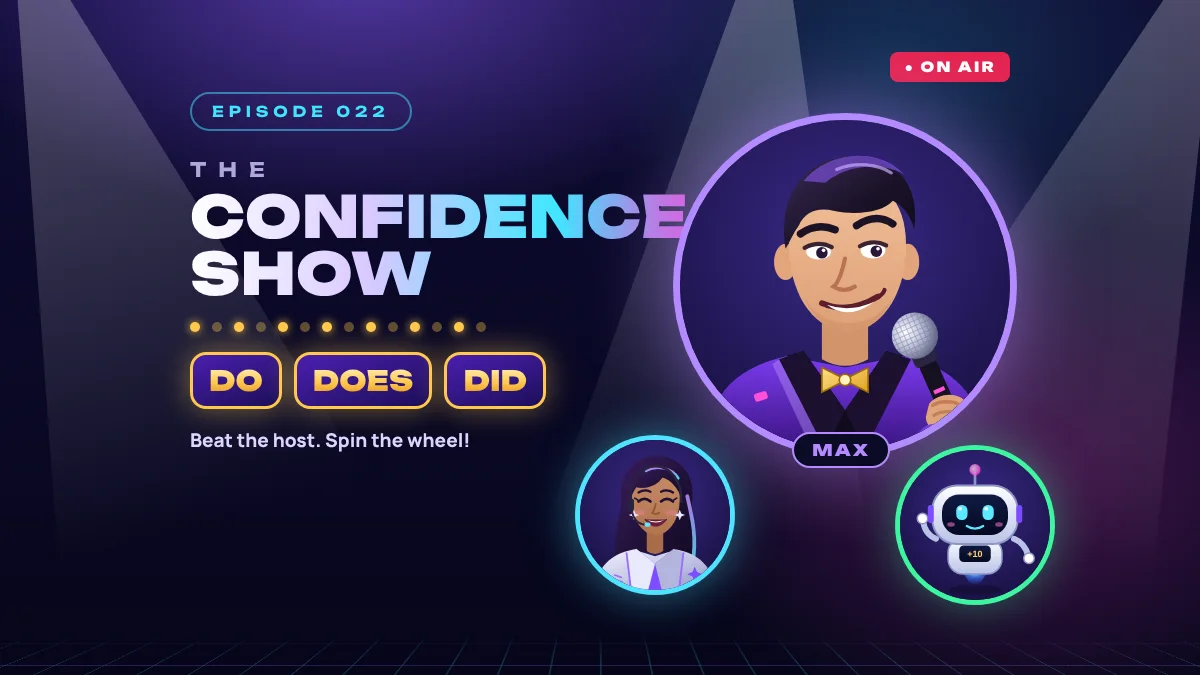
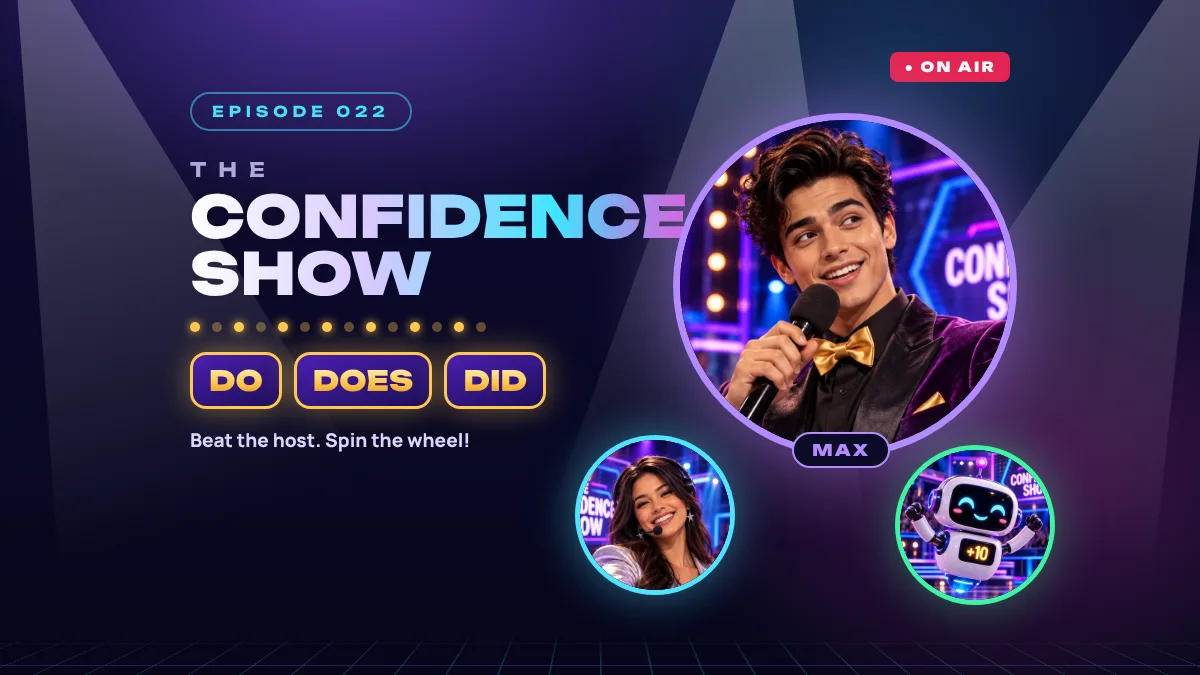
Add files via upload

Changed region(s): [[0.555, 0.1556, 0.8942, 0.9022], [0.4625, 0.6533, 0.6167, 0.8711]]

diff --git a/lessons/lesson-22/lesson-22.html b/lessons/lesson-22/lesson-22.html
@@ -24,8 +24,8 @@
 window.LESSON_CONFIG = {
   SUPABASE_URL : 'https://yhekszqxheljbxoucalt.supabase.co',
   SUPABASE_KEY : 'sb_publishable_knHTxZLX-Ucg0WtnfP0RTw_ytJ2Dyoa',
-  PHOTOS : { max:'img/cast/max.svg', max_shocked:'img/cast/max-shocked.svg', max_defeated:'img/cast/max-defeated.svg',
-             nova:'img/cast/nova.svg', beep:'img/cast/beep.svg' },
+  PHOTOS : { max:'img/cast/max.webp', max_shocked:'img/cast/max-shocked.webp', max_defeated:'img/cast/max-defeated.webp',
+             nova:'img/cast/nova.webp', beep:'img/cast/beep.webp' },
   GRAMMAR_LINK : '../../#grammar?topic=emphatic-do',
   WORDS_LINK   : '../../#words?lesson=21'
 };
@@ -123,7 +123,7 @@ body.champ #studio .beam{opacity:.5}
 .ib:hover{background:rgba(255,255,255,.09)} .ib.on{background:var(--violet);border-color:var(--violet)}
 .ib .lbl{display:none} @media (min-width:1640px){ .ib .lbl{display:inline} }
 #score{height:44px;display:inline-flex;align-items:center;gap:10px;padding:0 14px 0 6px;border-radius:999px;border:1px solid rgba(255,201,77,.5);background:linear-gradient(90deg,rgba(255,201,77,.16),rgba(255,201,77,.04));font-weight:800;white-space:nowrap}
-#score img{width:34px;height:34px;border-radius:50%;background:#1B1F55}
+#score img{width:34px;height:34px;border-radius:50%;background:#1B1F55;object-fit:cover}
 #score .tn{font-size:12px;letter-spacing:.08em;color:var(--gold2);max-width:130px;overflow:hidden;text-overflow:ellipsis;white-space:nowrap}
 @media (max-width:1360px){ #score .tn{display:none} }
 #score .pts{font-family:var(--disp);font-size:18px;color:var(--gold);min-width:2ch;text-align:right}
@@ -174,6 +174,11 @@ body.champ #studio .beam{opacity:.5}
 /* ════════ CHARACTERS & DIALOGUE ════════ */
 .av{--c:var(--c-max); position:relative; flex:none; width:var(--s,56px); height:var(--s,56px); border-radius:50%; overflow:hidden; background:radial-gradient(circle at 50% 35%,#3A2A8A,#120C34); box-shadow:0 0 0 3px var(--c), 0 0 24px color-mix(in srgb, var(--c) 45%, transparent); display:grid; place-items:center}
 .av img{width:100%;height:100%;object-fit:cover;display:block}
+/* BEEP «живий»: парить і світиться */
+.av.k-beep{animation:beepGlow 1.8s ease-in-out infinite}
+.av.k-beep img{animation:beepFloat 3s ease-in-out infinite}
+@keyframes beepFloat{0%,100%{transform:scale(1.1) translateY(2.5%)}50%{transform:scale(1.1) translateY(-2.5%)}}
+@keyframes beepGlow{0%,100%{box-shadow:0 0 0 3px var(--c), 0 0 18px rgba(61,245,160,.35)}50%{box-shadow:0 0 0 3px var(--c), 0 0 34px rgba(61,245,160,.8), 0 0 60px rgba(255,63,208,.35)}}
 .av .fb{font-family:var(--disp);font-size:calc(var(--s,56px)*.36);color:#fff}
 .k-max{--c:var(--c-max)} .k-nova{--c:var(--c-nova)} .k-beep{--c:var(--c-beep)} .k-you{--c:var(--c-you)} .k-emma{--c:var(--c-emma)}
 .nm{font-family:var(--disp);font-size:13px;letter-spacing:.12em;font-weight:900;text-transform:uppercase}
@@ -262,7 +267,7 @@ details.more summary{cursor:pointer;font-weight:800;color:var(--muted)}
 @keyframes floaty{50%{transform:translateY(-8px) rotate(-.6deg)}}
 .envelope .flap{position:absolute;left:0;right:0;top:0;height:58%;background:linear-gradient(180deg,#DCCB9E,#C2AC7C);clip-path:polygon(0 0,100% 0,50% 100%);transform-origin:50% 0;transition:transform .8s cubic-bezier(.5,0,.3,1);z-index:3;border-radius:14px 14px 0 0}
 .envelope .seal{position:absolute;left:50%;top:50%;transform:translate(-50%,-50%);z-index:4;width:84px;height:84px;border-radius:50%;background:radial-gradient(circle at 35% 30%,#FF6A8C,#B3123E);display:grid;place-items:center;color:#FFE3EA;font-family:var(--disp);font-size:30px;box-shadow:0 6px 16px rgba(0,0,0,.4);transition:opacity .3s}
-.envelope .stamp{position:absolute;left:8%;bottom:12%;z-index:2;font-family:var(--disp);font-size:clamp(14px,2vw,22px);color:#B3123E;border:4px solid #B3123E;border-radius:8px;padding:6px 14px;transform:rotate(-8deg);letter-spacing:.06em;opacity:.85}
+.envelope .stamp{position:absolute;left:7%;bottom:12%;z-index:2;font-family:var(--disp);font-size:clamp(11px,2.6vw,17px);white-space:nowrap;color:#B3123E;border:4px solid #B3123E;border-radius:8px;padding:6px 14px;transform:rotate(-8deg);letter-spacing:.06em;opacity:.85}
 .envelope .paper{position:absolute;left:6%;right:6%;top:8%;height:80%;background:#FBF8F0;border-radius:6px;z-index:1;transition:transform .9s .4s cubic-bezier(.3,.8,.3,1);box-shadow:0 2px 10px rgba(0,0,0,.2)}
 .envelope .paper::before{content:"";position:absolute;left:10%;right:10%;top:18%;height:60%;background:repeating-linear-gradient(180deg,#C9C1AE 0 3px,transparent 3px 16px)}
 .envelope.open .flap{transform:rotateX(180deg)}
@@ -443,7 +448,8 @@ body.present .tonly{display:none!important}
 /* ════════ BEEP bubble, toast, modal, notes, dock ════════ */
 #beep{position:fixed;left:clamp(10px,2vw,24px);bottom:92px;z-index:60;display:flex;align-items:center;gap:10px;pointer-events:none;opacity:0;transform:translateY(20px) scale(.9);transition:.35s cubic-bezier(.2,1.3,.4,1)}
 #beep.on{opacity:1;transform:none}
-#beep img{width:74px;height:74px}
+#beep img{width:74px;height:74px;border-radius:50%;object-fit:cover;box-shadow:0 0 0 3px var(--c-beep), 0 0 24px rgba(61,245,160,.6);animation:beepBob 3s ease-in-out infinite}
+@keyframes beepBob{50%{transform:translateY(-6px)}}
 #beep span{font-family:var(--disp);font-size:clamp(13px,1.2vw,17px);font-weight:900;letter-spacing:.06em;color:#062A1C;background:var(--c-beep);border-radius:16px 16px 16px 4px;padding:10px 14px;box-shadow:0 10px 30px rgba(61,245,160,.35)}
 #toast{position:fixed;left:50%;bottom:96px;transform:translate(-50%,20px);background:#221E63;border:1px solid var(--line2);border-radius:14px;padding:10px 18px;font-weight:700;font-size:15px;z-index:90;opacity:0;pointer-events:none;transition:.25s;max-width:min(92vw,620px);text-align:center}
 #toast.on{opacity:1;transform:translate(-50%,0)}

diff --git a/lessons/lesson-22/README.md b/lessons/lesson-22/README.md
@@ -7,7 +7,7 @@ Unit 3 · граматика **emphatic DO / DOES / DID** · коротке по
 ```
 lessons/lesson-22/
 ├── lesson-22.html        увесь урок (один файл, vanilla JS, без збірки)
-├── img/cast/             max · max-shocked · max-defeated · nova · beep  (SVG, намальовані для уроку)
+├── img/cast/             max · max-shocked · max-defeated · nova · beep  (.webp 800×800, квадратні кропи ваших зображень)
 └── img/cover.webp        обкладинка картки на платформі
 ```
 
